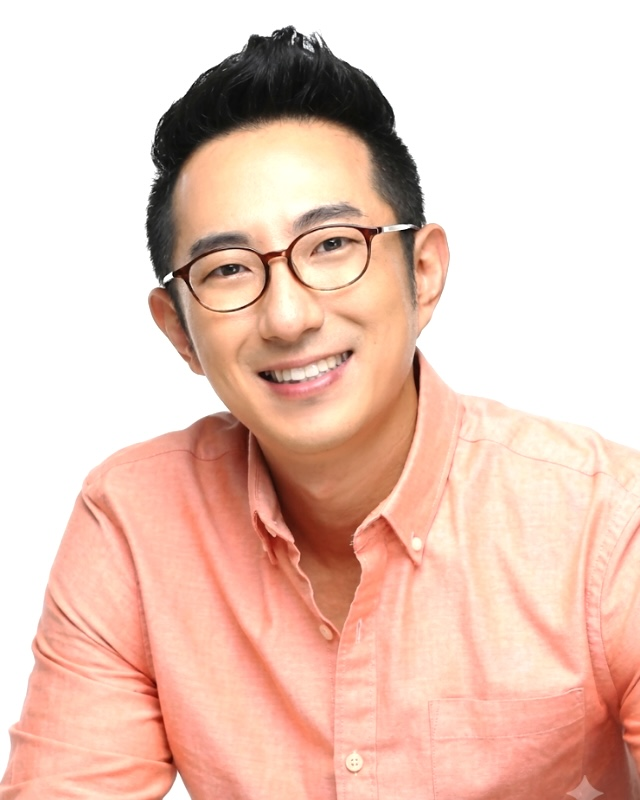
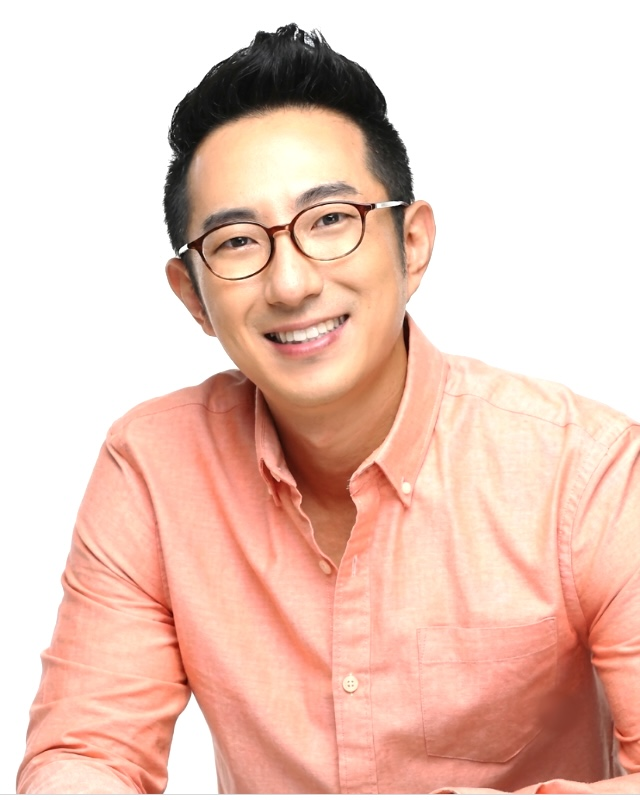
강의실 사진 추가, 탐구 사회/과학 줄 나눔·고아름 통합사회, 박남진·최한근·문지현 작게, 신연우=권현석 크기, 최한근 워터마크 제거

diff --git a/index.html b/index.html
@@ -385,7 +385,7 @@ section.v2-sec.gray{background:#F4F4F2;padding:120px 0}
 </section>
 
 <!-- 큰 사진 — 사진 받으면 img 로 바꿈 (img/photo/hero.jpg) -->
-<div class="wrap"><div class="v2-photo" id="photo-hero" role="img" aria-label="강의실 사진 자리">[강의실 · 자습실 사진 자리]</div></div>
+<div class="wrap"><div class="v2-photo" id="photo-hero" role="img" aria-label="대치독한수능학원 강의실" style="background-image:url(img/campus/classroom.jpg?v=1126)"></div></div>
 
 <section id="about" class="v2-sec">
   <div class="wrap">
@@ -646,7 +646,7 @@ const T=[
  {n:'문지현',s:'영어',c:['현) 메가스터디 영어 인강 대표강사','러셀 공채 1위 영어강사','전) 휘문고 · 단대부고 · 세화고 전임','매년 수능 만점자 배출','이투스북 모의고사 출제 · 검토']},
  {n:'박정은',s:'영어',c:['서울대학교 영어영문학과','서초 메가스터디 강의평가 1위','메가스터디 6월 · 9월 수능 모의평가 대표 평가위원','대성 모의고사 평가위원 (Dfine · Darchaive 모의고사 외)']},
  {n:'고연승',s:'영어',t:'영어 · 메디컬 핵심반',c:['연세대학교 영어영문학과 졸업 · 영어교육학과 석사','현) EBSi 수능 라인업 대표 강사','현) 대치 독수리 의대관','전) 전국모의고사 출제위원','전) 중동고 정교사','강남대성 S2 출강 및 담임','2024 수능연계 교재 『수능완성』 집필']},
- {n:'고아름',s:'탐구',t:'사탐',c:[]},
+ {n:'고아름',s:'탐구',t:'통합사회',c:[]},
  {n:'강윤구',s:'수학',c:['서울대학교 기계항공공학부','이투스 온라인 수학 인강 강사','공인회계사(CPA) 합격','의치대생 · 서울대생 최근 5년간 100명 이상 제자 배출']},
  {n:'박성하',s:'수학',t:'수학 · 수리논술',c:['서울대학교 수학교육과 졸업','종로학원','천재교육 공저','『우리 아이 마음에 수학을 심다』 (유페이퍼)','종로 모의고사 출제']},
  {n:'이정태',s:'탐구',t:'통합사회 · 인문논술',c:['서울대학교 문화인류학과 · 미시간주립대 석사','아폴론 · 이슈앤스카이','전) 중앙일보 기자','『밥상에 차려진 통합논술』']},
@@ -662,7 +662,7 @@ const T=[
 ];
 const list=document.getElementById('tlist');
 /* 사진: img/teachers/이름.jpg 를 PHOTO 에 적으면 사진, 없으면 성 한 글자 */
-const PHOTO={};['류성훈','이태형','장의순','김호랑','고연승','신연우','권현석','정민','홍진수','최정윤','이예섭','정지만','김현중','이창환','최현재','김경한','문지현','박정은','박남진','최한근','안민형','강윤구'].forEach(n=>PHOTO[n]='img/teachers/'+n+'.jpg?v=1126b');
+const PHOTO={};['류성훈','이태형','장의순','김호랑','고연승','신연우','권현석','정민','홍진수','최정윤','이예섭','정지만','김현중','이창환','최현재','김경한','문지현','박정은','박남진','최한근','안민형','강윤구'].forEach(n=>PHOTO[n]='img/teachers/'+n+'.jpg?v=1126c');
 /* 줄 순서: 1줄 국어 · 2줄 수학 · 3줄 영어 · 4줄 탐구 · 논술 (11/19 사장님 요청)
    같은 과목 안에서는 (탐구는 통합과학·통합사회·사탐 순으로 묶고) 사진 있는 강사 먼저, 나머지는 배열 순서 그대로 */
 const SUBJ=['국어','수학','영어','탐구','논술'];
@@ -675,7 +675,8 @@ function drawT(f){
   const cut=f==='all'&&!tOpen; if(cut) arr=arr.filter(t=>PHOTO[t.n]); /* 접힌 화면: 사진 있는 강사만, 과목별 한 줄 */
   document.getElementById('tAll').parentNode.style.display=cut?'':'none';
   list.innerHTML=arr.map((t,i)=>{
-    const 줄바꿈=(f==='all'&&i>0&&arr[i-1].s!==t.s)?'<div class="tbr" aria-hidden="true"></div>':'';
+    const 묶음=x=>x.s==='탐구'?((x.t||'').includes('과학')?'탐구과학':'탐구사회'):x.s;
+    const 줄바꿈=(i>0&&묶음(arr[i-1])!==묶음(t))?'<div class="tbr" aria-hidden="true"></div>':'';
     const 사진=PHOTO[t.n]?`<img class="ph" loading="lazy" src="${PHOTO[t.n]}" alt="${t.n} 강사">`:`<div class="ph" role="img" aria-label="${t.n} 강사 사진 자리">${t.n[0]}</div>`;
     const 약력=t.c.length?`<ul>${t.c.map(x=>`<li>${x}</li>`).join('')}</ul>`:'';
     const 링크=t.l?`<a class="tl" href="${t.l}" target="_blank" rel="noopener">홈페이지 바로가기 ↗</a>`:'';
